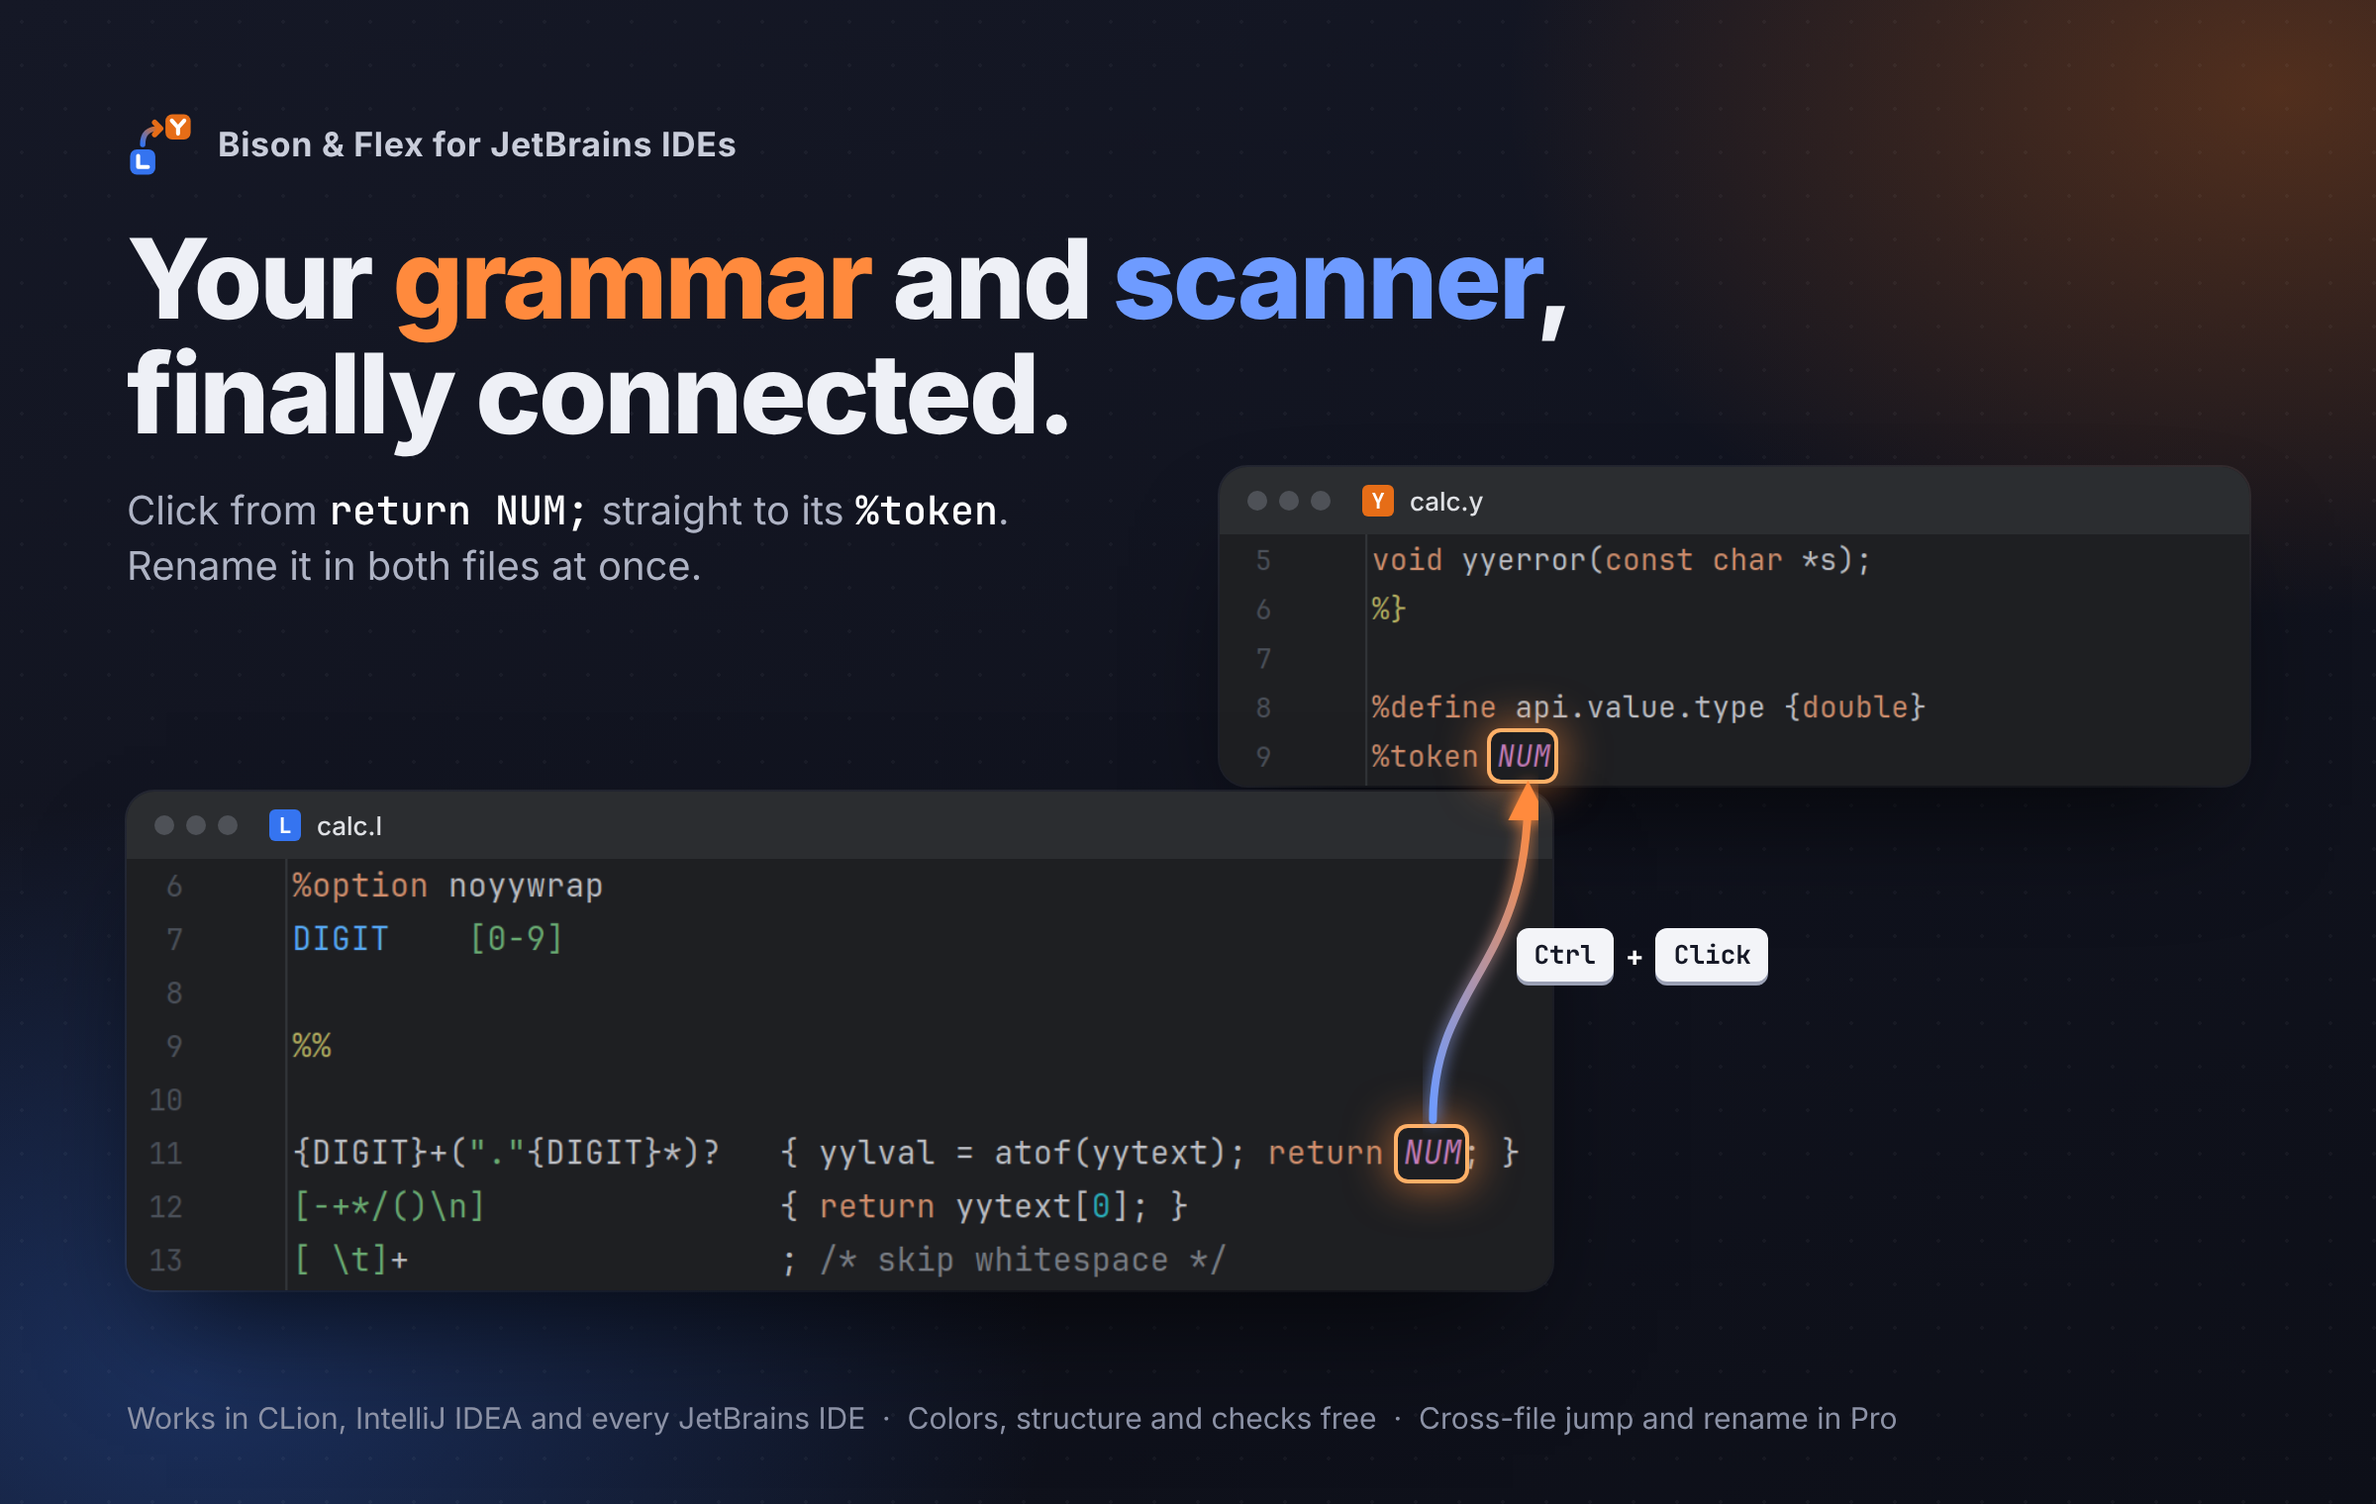
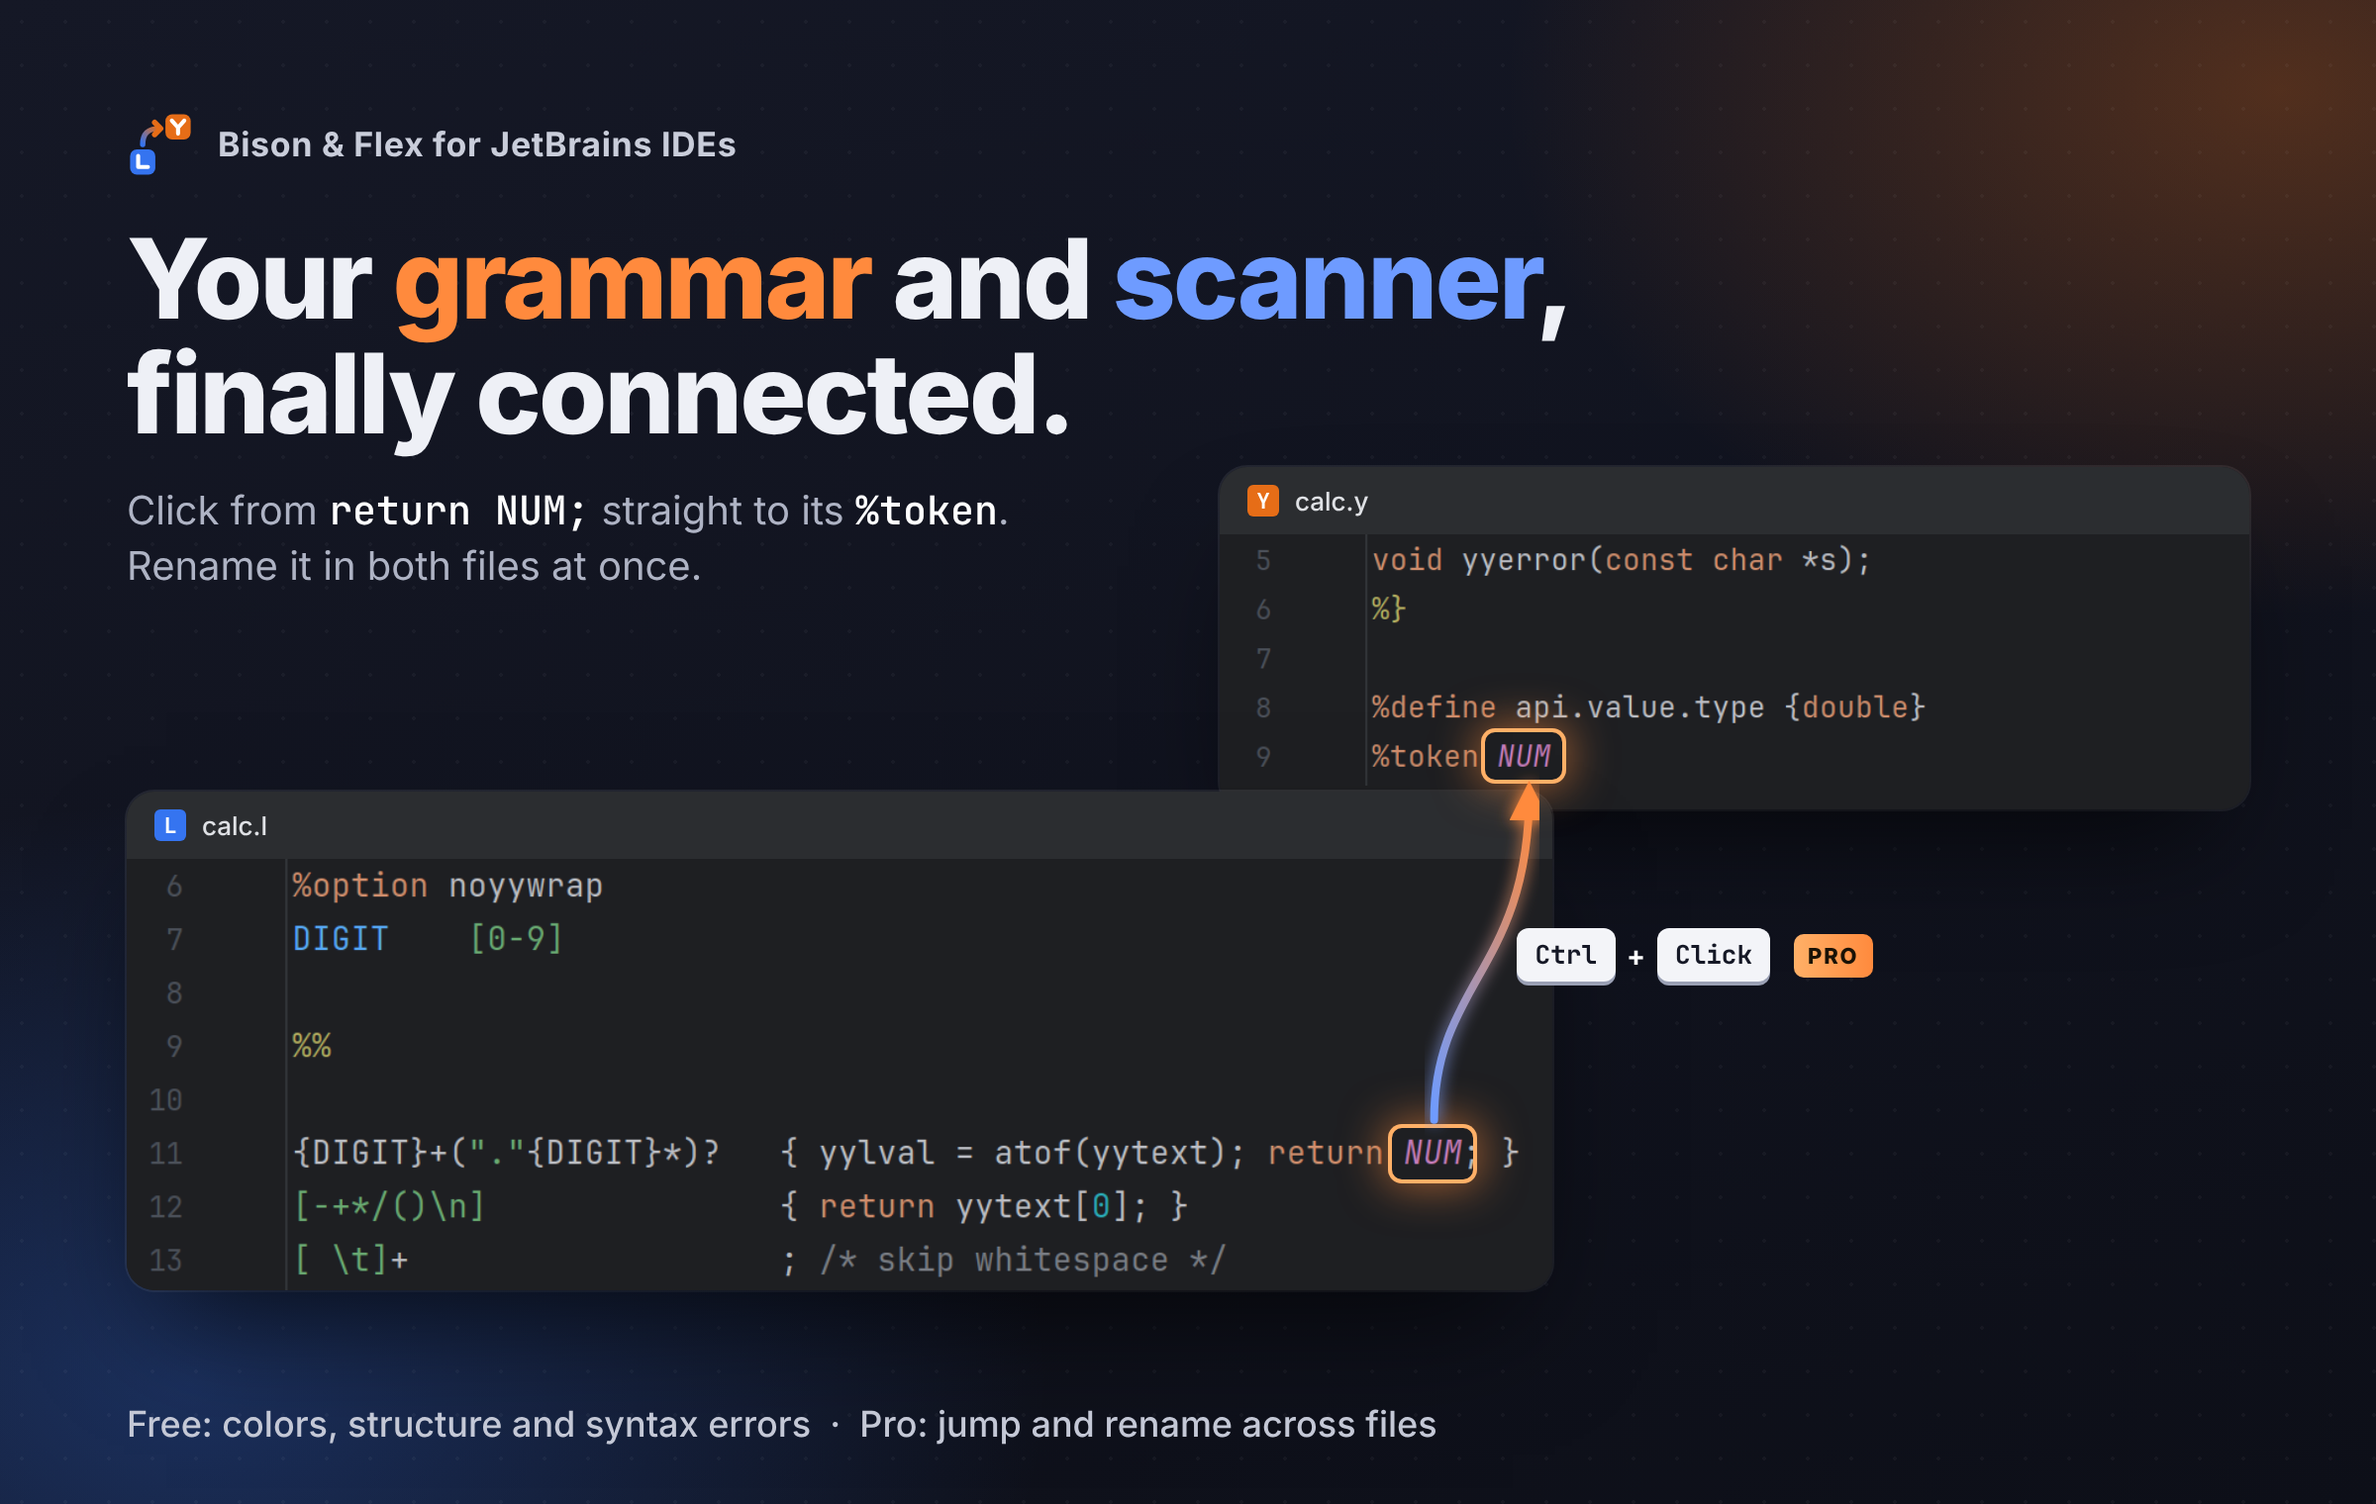
Daan: Bison & Flex poster en icoon na controleur (Pro duidelijk, 16px balloonicoon, balloon afgekapt als moet-punt)
Claude-Session: https://claude.ai/code/session_01RMWUyh2rPEZ6P3heQcR3Xv

diff --git a/ontwerp/bison-flex/bron/poster.html b/ontwerp/bison-flex/bron/poster.html
@@ -23,6 +23,7 @@ h1 .o{color:#FF8A3D}h1 .b{color:#6E9BFF}
 .ft{font:700 11px 'JetBrains Mono';width:16px;height:16px;border-radius:3px;display:grid;place-items:center;color:#fff}
 .ft.y{background:#E66D17}.ft.l{background:#3574F0}
 .card img.code{display:block}
+.card .pad{height:12px;background:#1E1F22}
 #cl{left:64px;top:400px;width:720px}
 #cl img.code{width:720px}
 #cy{left:616px;top:236px;width:520px}
@@ -31,7 +32,8 @@ h1 .o{color:#FF8A3D}h1 .b{color:#6E9BFF}
 svg.arc{position:absolute;inset:0;pointer-events:none;overflow:visible}
 .key{position:absolute;display:flex;gap:6px;align-items:center;font:600 14px Inter;color:#fff}
 .key b{font:700 13px 'JetBrains Mono';background:#F3F4F8;color:#151826;border-radius:6px;padding:5px 9px;box-shadow:0 2px 0 #9AA0B4}
-.foot{position:absolute;left:64px;bottom:34px;font-size:15px;color:#8C92A6}
+.pro{margin-left:6px;font:800 11px Inter;letter-spacing:.08em;color:#1A1206;background:linear-gradient(90deg,#FFB067,#FF8A3D);border-radius:5px;padding:4px 7px}
+.foot{position:absolute;left:64px;bottom:30px;font-size:18px;font-weight:500;color:#C4C8D6}
 </style></head>
 <body>
 <div class="grain"></div>
@@ -42,11 +44,11 @@ svg.arc{position:absolute;inset:0;pointer-events:none;overflow:visible}
 </div>
 
 <div class="card" id="cy">
-  <div class="bar"><span class="dots"><i></i><i></i><i></i></span><span class="ft y">Y</span>calc.y</div>
-  <img class="code" src="CODE_Y">
+  <div class="bar"><span class="ft y">Y</span>calc.y</div>
+  <img class="code" src="CODE_Y"><div class="pad"></div>
 </div>
 <div class="card" id="cl">
-  <div class="bar"><span class="dots"><i></i><i></i><i></i></span><span class="ft l">L</span>calc.l</div>
+  <div class="bar"><span class="ft l">L</span>calc.l</div>
   <img class="code" src="CODE_L">
 </div>
 <div class="hl" id="hy"></div><div class="hl" id="hl2"></div>
@@ -55,16 +57,16 @@ svg.arc{position:absolute;inset:0;pointer-events:none;overflow:visible}
  <marker id="m" viewBox="0 0 10 10" refX="7" refY="5" markerWidth="5" markerHeight="5" orient="auto-start-reverse"><path d="M0 0L10 5L0 10z" fill="#FF8A3D"/></marker>
  <filter id="glow"><feGaussianBlur stdDeviation="4" result="b"/><feMerge><feMergeNode in="b"/><feMergeNode in="SourceGraphic"/></feMerge></filter>
 </defs><path id="p" fill="none" stroke="url(#g)" stroke-width="4" stroke-linecap="round" marker-end="url(#m)" filter="url(#glow)"/></svg>
-<div class="key" id="k"><b>Ctrl</b>+<b>Click</b></div>
-<div class="foot">Works in CLion, IntelliJ IDEA and every JetBrains IDE &nbsp;·&nbsp; Colors, structure and checks free &nbsp;·&nbsp; Cross-file jump and rename in Pro</div>
+<div class="key" id="k"><b>Ctrl</b>+<b>Click</b><span class="pro">PRO</span></div>
+<div class="foot">Free: colors, structure and syntax errors &nbsp;·&nbsp; Pro: jump and rename across files</div>
 <script>
 // NUM-posities in de bijsnijdingen (pixels van het origineel)
 const sl=720/1170, sy=520/920;
 const cl=document.getElementById('cl').getBoundingClientRect(), cy=document.getElementById('cy').getBoundingClientRect();
-function box(el,r,s,x0,x1,yc){const h=34*s*1.25;el.style.left=(r.left+x0*s-3)+'px';el.style.top=(r.top+34+yc*s-h/2)+'px';el.style.width=((x1-x0)*s+5)+'px';el.style.height=h+'px';
+function box(el,r,s,x0,x1,yc){const h=34*s*1.25;el.style.left=(r.left+x0*s-5)+'px';el.style.top=(r.top+34+yc*s-h/2)+'px';el.style.width=((x1-x0)*s+8)+'px';el.style.height=h+'px';
  return {x:r.left+(x0+x1)/2*s, top:r.top+34+yc*s-h/2, bot:r.top+34+yc*s+h/2};}
-const a=box(document.getElementById('hl2'),cl,sl,1048,1096,242);
-const b=box(document.getElementById('hy'),cy,sy,248,296,199);
+const a=box(document.getElementById('hl2'),cl,sl,1046,1100,242);
+const b=box(document.getElementById('hy'),cy,sy,246,300,199);
 const sx=a.x, sy0=a.top-4, ex=b.x+2, ey=b.bot+6;
 document.getElementById('p').setAttribute('d',`M${sx} ${sy0} C ${sx} ${sy0-70}, ${ex} ${ey+90}, ${ex} ${ey}`);
 const k=document.getElementById('k');k.style.left=((sx+ex)/2+18)+'px';k.style.top=((sy0+ey)/2-14)+'px';

diff --git a/platformen/jetbrains/taken.md b/platformen/jetbrains/taken.md
@@ -4,7 +4,7 @@
 
 **Van Hans (6 nov, 20:50):** je meet grondig en elk deel is nagekeken, goed werk. Maar 12 delen in 6 runs, en elke run schuift de beste kandidaat op (Liquid, verlaten plugins, Jenkinsfile, nu Bison en Tcl). Dat dreigt een rondje te worden. Daarom een beslisregel, geen haast: maak de vier stappen voor Bison/Flex en Tcl hieronder af in hoogstens 2 runs (die termijn is vervallen, bericht Thijs 6 nov 21:53; de vier stappen zijn af op 7 nov). Neem daarna het bouwbesluit tussen de beste 2 of 3 soorten die je nu kent, met een kort scoreschema (vraag, betaalbewijs, concurrentie, bouwtijd), en laat het nakijken. Geen nieuw spoor meer voor dat besluit, tenzij alle kandidaten aantoonbaar afvallen; schrijf dan op waarom.
 
-- [ ] **Daan, beoordeling 9 (8 nov 00:50):** hernoemen in beeld goed (run 42427906937). Klein: balloon in de structuurweergave onder de knoop (`Balloon.Position.below`). Antwoord op je vraag over de nieuwe lat: poster als eerste winkelplaatje en nieuw pluginicoon maakt Daan zelf; voor jou alleen het pluginicoon (13x13) in de Pro-balloon in plaats van het i-tje. GIF mag later. Akkoord staat op `nee` tot poster, icoon en balloon-icoon er zijn en eis 7 netjes is. Zie `producten/jetbrains-bison-flex/ontwerp.md`.
+- [ ] **Daan, beoordeling 9 (8 nov 00:50):** hernoemen in beeld goed (run 42427906937). Klein: balloon in de structuurweergave onder de knoop (`Balloon.Position.below`). Antwoord op je vraag over de nieuwe lat: poster als eerste winkelplaatje en nieuw pluginicoon maakt Daan zelf; voor jou: nieuw `pluginIcon.svg` kopiëren uit `ontwerp/bison-flex/`, `proIcon16.svg` in de Pro-balloon in plaats van het i-tje, en de balloontekst korter (nu afgekapt bij "Try it free...", zie punt 5). GIF mag later. Akkoord staat op `nee` tot poster, icoon en balloon-icoon er zijn en eis 7 netjes is. Zie `producten/jetbrains-bison-flex/ontwerp.md`.
 - [ ] **Eerst (volgende run): eis 7, meldingen ongedefinieerd en ongebruikt** (Moet in 1.0 punt 2): ontwerp kort in `ontwerp.md`, dan bouwen met snelle oplossing (ongebruikte regel of token weghalen), nul valse meldingen op de 10 echte bestanden, schermen licht en donker voor Daan. Werk op een nieuwe tak vanaf main (`claude/jetbrains-2026-11-08-a`). Let op: main is op 7 nov opnieuw begonnen (eigen geschiedenis vanaf 644a2c7); oude takken zoals `-o` zijn niet samen te voegen, alleen bestanden overnemen.
 - [ ] **Kan-punten controleur 8 nov 00:25 (balloon zonder editor):** `ProMelding.kt:136` `?: true` wordt `?: false`; `laatsteBalloon` pas na `show` zetten (`ProMelding.kt:98`); focus-onderdeel op één plek bepalen (`ProHernoemen.kt:73` en `ProMelding.focusOnderdeel`); balloon onder of rechts van de knoop zodat de kop "Declarations" vrij blijft (wacht op Daan).
 - [x] (gedaan 8 nov 00:30 UTC: balloon bij de knoop, f1a1f06, IDE-run 42427906937 groen licht en donker, controleur akkoord zonder moet-punten, op main) **Eerst (volgende run): hint zonder editor zichtbaar maken (Daan punt 3, ronde 4, nieuwe aanpak).** Ronde 3 (tak `-o` f40e194, IDE-run 42423551917, rood licht en donker) vond de oorzaak (GEZIEN in het log): met de boom als context staat `RenameElement` aan, `ProHernoemen` wordt aangeroepen en de hint "NUM is also used in calc.l and calc.ll. Rename across grammar and scanner is a Pro feature." komt; maar (1) Shift+F6 via xdotool bereikt de actie niet in de boom (GOK: xdotool op de testmachine, geen pluginfout), en (2) de statusbalk blijft `null` en op `licht-hernoem-structuur.png` staat geen tekst van ons (GEZIEN door de bouwer): de nieuwe UI toont `StatusBar.Info.set` niet (GOK). Dat is een echte pluginfout: zonder editor ziet de gebruiker niets. **Beslissing Jet:** geen herhaling van dezelfde poging, maar een andere aanpak: zonder editor de hint tonen als kleine balloon naast de gekozen knoop (`JBPopupFactory.createHtmlTextBalloonBuilder` op de plek van de knoop, of `HintManager.showHint` bij de boom), `ProMelding.toonHint` daarop aanpassen, en in de IDE-test de bewering op de statusbalk vervangen door een bewering op die balloon (reden in de commit, controleur keurt apart). In de test voor de boom het pad via de actie (`HernoemDiagnose.hernoemMetFocus`) houden en eerlijk loggen dat xdotool daar niet aankomt. Lukt dit niet in één run: stap uit de IDE-test laten, unittest als bewijs, Daan laten weten, en door met eis 7. Daan: punt 3 is nog niet opgelost, zie deze regel.

diff --git a/producten/jetbrains-bison-flex/ontwerp.md b/producten/jetbrains-bison-flex/ontwerp.md
@@ -198,8 +198,14 @@ Bekeken (licht en donker, 2880 bij 1800): `hernoem-structuur`, `hernoem-melding`
 
 1. **Moet: een poster als eerste winkelplaatje.** Een korte kop, calc.l en calc.y naast elkaar, en een duidelijke boog van `return NUM;` naar `%token NUM`. Dit maak ik zelf (ontwerpwerk, geen code), van de echte schermen uit de IDE-test. Jet hoeft er niets voor te bouwen, behalve als ik om een extra scherm vraag.
 2. **Moet: een pluginicoon dat opvalt.** Het huidige icoon (twee overlappende vierkanten, oranje en blauw) is netjes maar zegt niets en verdwijnt tussen de andere in de lijst. Ik lever een nieuw `pluginIcon.svg` en `pluginIcon_dark.svg` aan (zelfde bestandsnamen, 40 bij 40); Jet hoeft ze alleen te laten staan als ik ze op een tak zet.
-3. **Moet: een eigen klein icoon in de Pro-balloon,** in plaats van het blauwe i-tje: het pluginicoon op 13 bij 13 (`NotificationGroup` met eigen icoon, of `Notification.setIcon`). Klein werk, maar zo zie je dat de melding van ons komt en niet van de IDE. Dit is code, dus voor Jet.
+3. **Moet: een eigen klein icoon in de Pro-balloon,** in plaats van het blauwe i-tje: `ontwerp/bison-flex/proIcon16.svg` (16 bij 16, `Notification.setIcon` met `IconLoader.getIcon`). Klein werk, maar zo zie je dat de melding van ons komt en niet van de IDE. Dit is code, dus voor Jet.
 4. **Mag, niet nodig voor 1.0:** een korte GIF van Ctrl+klik van `.l` naar `.y`. De winkel van JetBrains toont plaatjes en video's; een GIF in de beschrijving is een bonus. Ik maak hem als de IDE-test een reeks plaatjes van die klik maakt (vijf kort na elkaar), dat kan later.
 
-Meer vraag ik niet voor 1.0 op uiterlijk. Zijn 1 tot 3 klaar en zien de meldingen van eis 7 er netjes uit in licht en donker, dan is het `ja`.
+5. **Moet (gevonden door de controleur): de Pro-balloon wordt afgekapt.** In alle meldingsschermen eindigt de tekst op "Try it free..." met een uitklappijltje; "30 days" valt weg. Dat had ik onder "Goed" moeten missen niet. Maak de tekst korter zodat hij op twee regels past, bijvoorbeeld: "Renaming NUM also changes calc.l. That is a Pro feature, free to try for 30 days." (en voor ga-naar net zo kort).
+
+Poster en icoon staan in `ontwerp/bison-flex/` (zie de README daar). De poster is gemaakt van de echte schermen van IDE-run 42429131027 en zegt onderaan wat gratis is en wat Pro (kleuren, structuur en syntaxfouten gratis; springen en hernoemen tussen bestanden Pro), met een PRO-label bij Ctrl+Click.
+
+Nagekeken door een controleur (agent, 8 nov): eens met `nee`. Overgenomen: het afgekapte balloon (punt 5), Pro duidelijker op de poster (label en grotere voetregel; "checks free" klopte niet, de meldingen van eis 7 zijn Pro), Mac-stippen weg (er staat Ctrl), kader om `NUM` niet meer door de letters, 13px-icoon vervangen door 16px met pijlpunt. Niet overgenomen: het lege vlak rechtsonder op de poster (geeft rust aan de pijl) en de hint die regel 8 half afdekt (verdwijnt bij de volgende toets, IDE-gedrag).
+
+Meer vraag ik niet voor 1.0 op uiterlijk. Zijn 3 en 5 klaar, staat het nieuwe icoon erin (punt 2, alleen kopiëren) en zien de meldingen van eis 7 er netjes uit in licht en donker, dan is het `ja`.
 

diff --git a/ontwerp/bison-flex/README.md b/ontwerp/bison-flex/README.md
@@ -2,5 +2,5 @@
 
 - `winkel-1-poster.png`: eerste winkelplaatje, 2400 bij 1520 (1200 bij 760 op factor 2, de maat die de JetBrains-winkel aanraadt). Gemaakt van de echte schermen uit IDE-run 42429131027 (main c0562da): `donker-calc-l.png` en `donker-calc-y-structuur.png`, alleen bijgesneden.
 - `pluginIcon.svg`: voorstel nieuw pluginicoon, 40 bij 40. Blauwe L (scanner) linksonder wijst met een boog naar de oranje Y (grammatica) rechtsboven. Werkt op licht en donker (`icoon-vergelijking.png`: links nieuw, rechts oud). Jet: kopieer naar `src/main/resources/META-INF/pluginIcon.svg` en `pluginIcon_dark.svg` (zelfde bestand mag voor beide).
-- `proIcon13.svg`: 13 bij 13 voor de Pro-balloon, zelfde opbouw zonder letters.
+- `proIcon16.svg`: 16 bij 16 voor de Pro-balloon, twee vakjes met de pijl ertussen (`proIcon16-voorbeeld.png`, licht en donker). Een eerste 13px-versie zonder pijl was op ware grootte niet te lezen (controleur), daarom 16 met pijlpunt.
 - `bron/`: opnieuw maken met `node bron/render.mjs bron/poster.html uit.png donker 2` (vanuit `bron/`, Playwright nodig).
